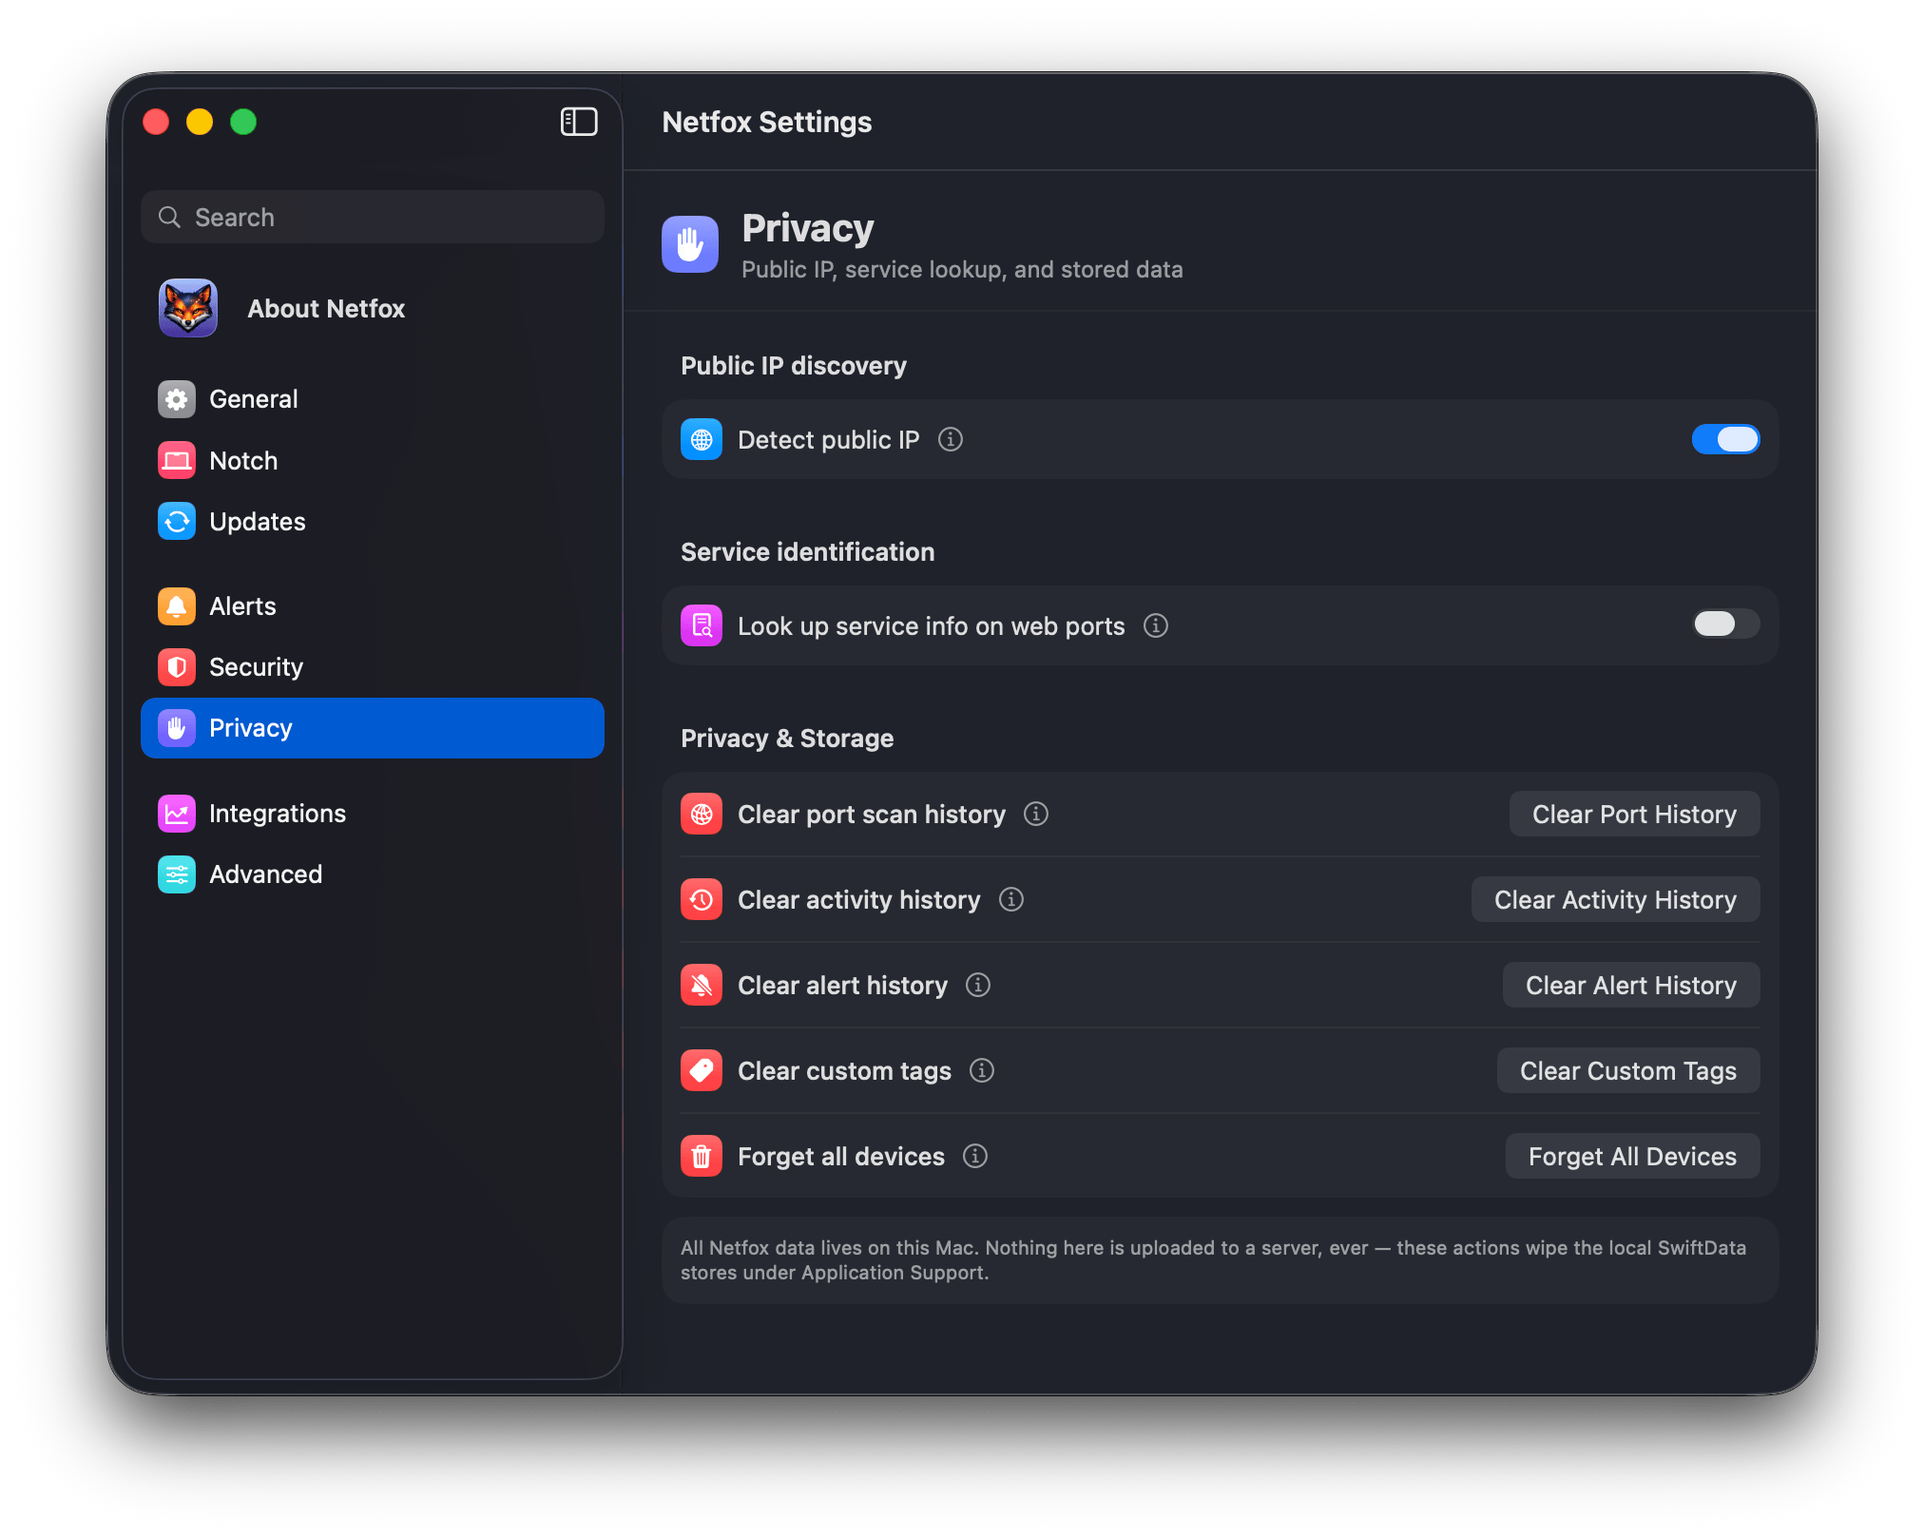
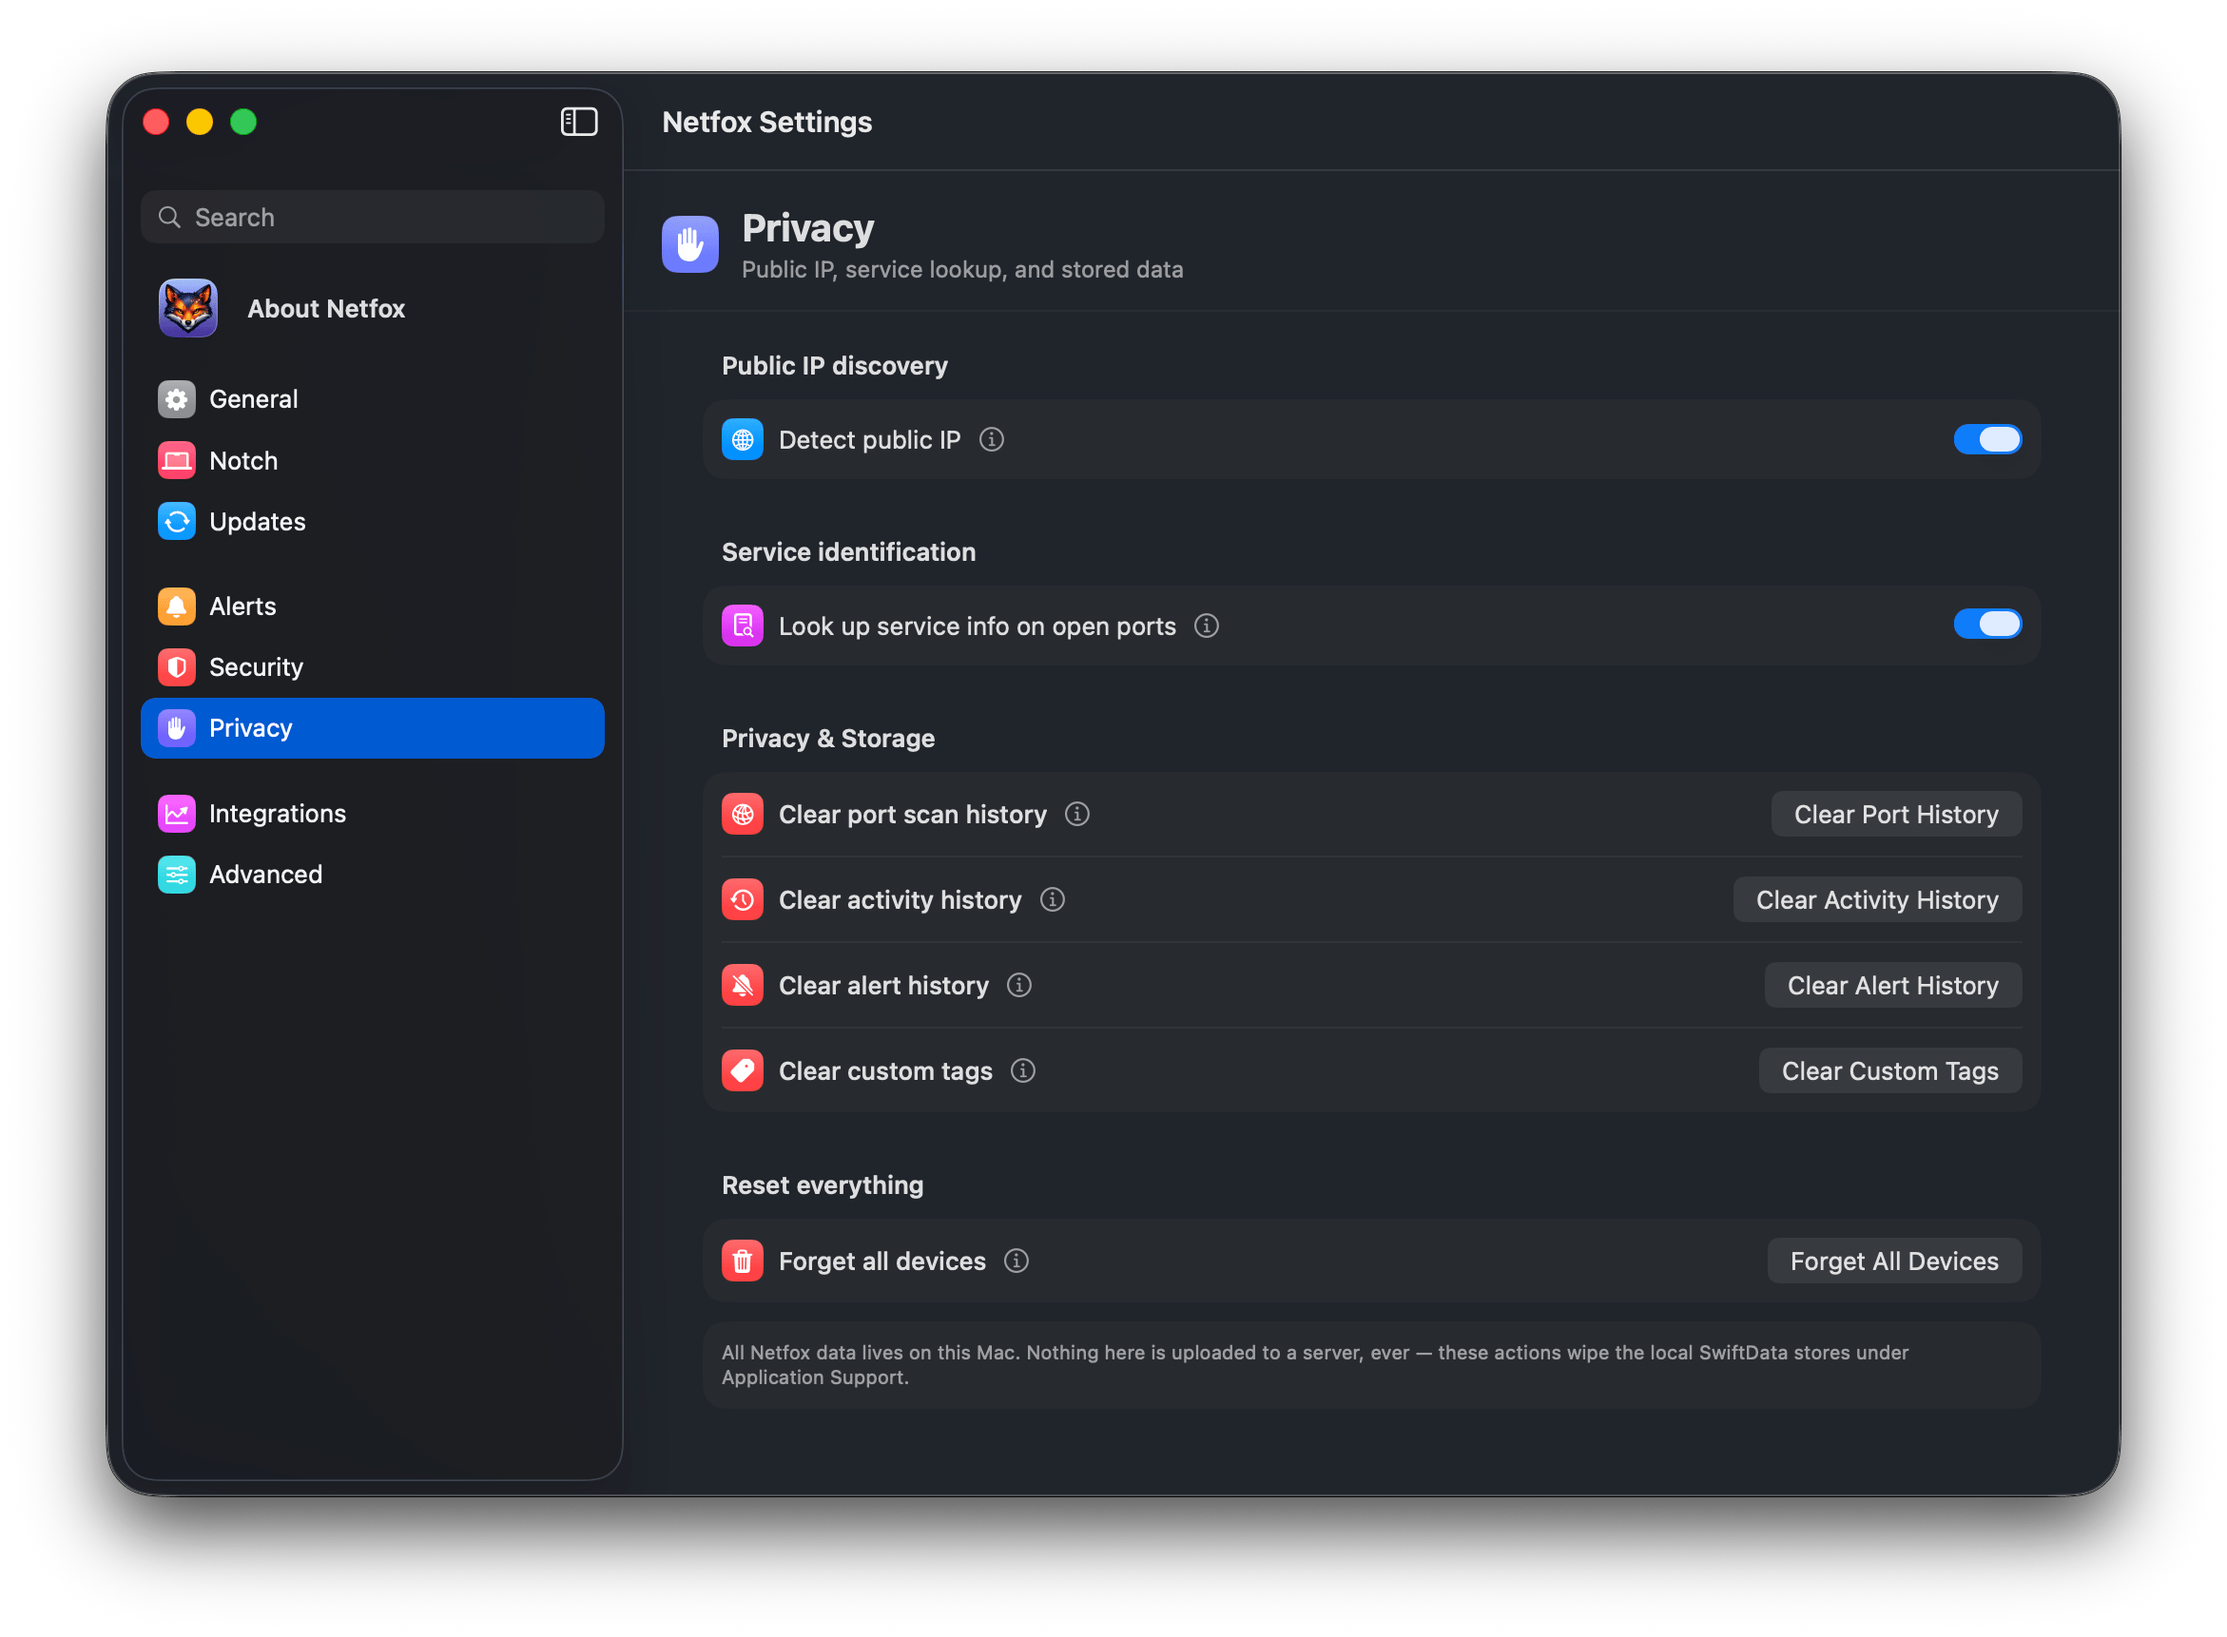
feat(sparkle): publish Netfox v0.10.0 to appcast

Changed region(s): [[0.0311, 0.0309, 0.9649, 0.9282], [0.7782, 0.4641, 0.9027, 0.7116], [0.2801, 0.1238, 0.6225, 0.1856]]

diff --git a/public/release-notes/0.10.0.html b/public/release-notes/0.10.0.html
@@ -1,0 +1,99 @@
+<!DOCTYPE html>
+<html lang="en">
+<head>
+<meta charset="utf-8">
+<meta name="viewport" content="width=device-width, initial-scale=1">
+<title>Netfox 0.10.0 — Release Notes</title>
+<style>
+  :root {
+    color-scheme: light dark;
+    --bg: #ffffff;
+    --fg: #1a1a1a;
+    --accent: #f76707;
+    --muted: #6b6b73;
+    --code-bg: #f4f4f5;
+    --border: rgba(0,0,0,0.12);
+  }
+  @media (prefers-color-scheme: dark) {
+    :root {
+      --bg: #1c1c1e;
+      --fg: #ececec;
+      --muted: #9c9ca5;
+      --code-bg: #2c2c2e;
+      --border: rgba(255,255,255,0.14);
+    }
+  }
+  * { box-sizing: border-box; }
+  body {
+    font: 14px/1.55 -apple-system, BlinkMacSystemFont, "SF Pro Text", "Helvetica Neue", sans-serif;
+    color: var(--fg);
+    background: var(--bg);
+    margin: 0 auto;
+    padding: 20px 24px 40px;
+    max-width: 720px;
+  }
+  header.page-header {
+    border-bottom: 1px solid var(--border);
+    padding-bottom: 14px;
+    margin-bottom: 22px;
+  }
+  header.page-header h1 { font-size: 1.7em; margin: 0 0 4px; letter-spacing: -0.02em; }
+  header.page-header .subtitle { color: var(--muted); margin: 0; font-size: 0.92em; }
+  h1, h2, h3, h4 { letter-spacing: -0.01em; margin: 1.5em 0 0.5em; }
+  h1 { font-size: 1.4em; }
+  h2 { font-size: 1.2em; }
+  h3 { font-size: 1em; }
+  a { color: var(--accent); }
+  hr { border: 0; border-top: 1px solid var(--border); margin: 22px 0; }
+  ul, ol { padding-left: 1.4em; }
+  li { margin: 4px 0; }
+  code {
+    font: 0.9em ui-monospace, "SF Mono", Menlo, Consolas, monospace;
+    background: var(--code-bg);
+    padding: 1px 5px;
+    border-radius: 3px;
+  }
+  pre {
+    background: var(--code-bg);
+    padding: 12px 14px;
+    border-radius: 6px;
+    overflow-x: auto;
+    font-size: 0.88em;
+  }
+  pre code { background: transparent; padding: 0; font-size: 1em; }
+  blockquote {
+    margin: 12px 0;
+    padding-left: 12px;
+    border-left: 3px solid var(--border);
+    color: var(--muted);
+  }
+  table { border-collapse: collapse; width: 100%; margin: 12px 0; font-size: 0.95em; }
+  th, td { border: 1px solid var(--border); padding: 6px 10px; text-align: left; }
+  th { background: var(--code-bg); }
+  img { max-width: 100%; }
+</style>
+</head>
+<body>
+<header class="page-header">
+  <h1>Netfox 0.10.0</h1>
+  <p class="subtitle">Release notes</p>
+</header>
+<p>Netfox 0.10 is the <strong>readability</strong> release. It works harder to tell you <em>what</em> each device is — in plain English — instead of leaving you with hex addresses and port numbers.</p>
+<h2>Know what's on your network</h2>
+<ul>
+<li><strong>Plain-English identity</strong> — a device with no friendly name now leads with <em>what it is</em> — "Netgear · Router · Web service" — instead of a bare IP address. The address drops to the subtitle, where it belongs. Devices you've named, or that report a hostname, keep that name up front as before.</li>
+<li><strong>More services recognised</strong> — more of what a device announces on the network now feeds its identity, so more devices read as what they are at a glance instead of an anonymous address.</li>
+</ul>
+<h2>See what's actually running — the Service inspector</h2>
+<ul>
+<li><strong>Service inspector</strong> — open a device's General tab and Netfox names the product behind its open ports: a router's SSH shell, an HP printer, a NAS, a smart-home web page. A bare "port 8080 open" becomes "that's the printer's web admin."</li>
+<li>It reads only what a service announces about itself on connect — no login attempt, nothing intrusive — and stays off until you switch on <strong>Look up service info on open ports</strong> in Settings → Privacy.</li>
+</ul>
+<h2>Settings</h2>
+<ul>
+<li><strong>A clearer reset</strong> — in Settings → Privacy, the full reset ("Forget all devices," which wipes <em>everything</em>) now sits in its own <strong>Reset everything</strong> section, clearly apart from the targeted history clears, so it can't be mistaken for one of them.</li>
+</ul>
+<hr>
+<p>Netfox stays native, on-device, and account-free — everything it learns about your network lives only on your Mac. Requires macOS 15.6 or later.</p>
+</body>
+</html>

diff --git a/config/index.ts b/config/index.ts
@@ -86,7 +86,7 @@ export default {
     defaultLanguage: 'en',
   },
   app: {
-    version: '0.9.1',
+    version: '0.10.0',
     minMacOS: '15.0',
     downloadUrl: 'https://github.com/gfazioli/netfox-website/releases/latest',
   },
